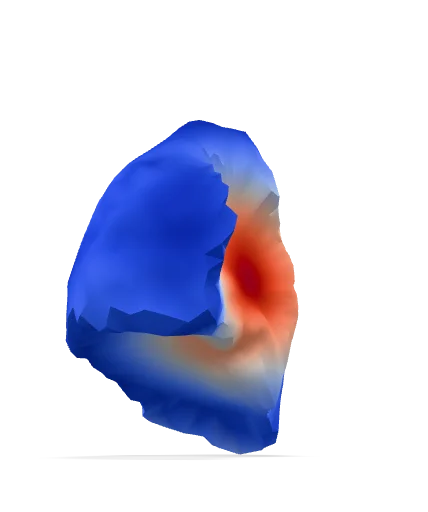
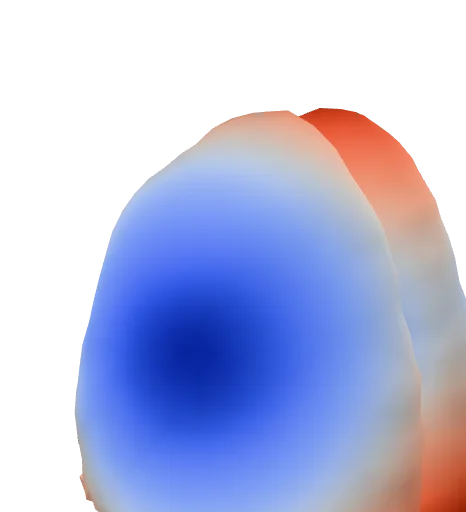
Update model 3D

diff --git a/Resources/AR/3D_lung_AR.html b/Resources/AR/3D_lung_AR.html
@@ -9,7 +9,12 @@
   </head>
   <body>
     <!-- <model-viewer> HTML element -->
-    <model-viewer src="lung_nonflipped.glb" ar ar-modes="scene-viewer webxr quick-look" camera-controls tone-mapping="neutral" poster="poster.webp" shadow-intensity="0.35" shadow-softness="1" exposure="0.79" camera-orbit="4.628deg 101deg 54.63m" field-of-view="30deg" auto-rotate>
+    <model-viewer src="Lungs_LL_Inverted_RL_NonInverted.glb" ar ar-modes="webxr scene-viewer quick-look" camera-controls tone-mapping="neutral" poster="poster.webp" shadow-intensity="1.33" camera-orbit="173.7deg 81.78deg 6.515m" field-of-view="30deg" auto-rotate exposure="0.62">
+      <button class="Hotspot" slot="hotspot-1" data-position="-0.8184790388448595m -0.0321828500967391m -0.8610020719018683m" data-normal="-0.28390831089996554m 0.23131470193568243m -0.9305318799860298m" data-visibility-attribute="visible">
+          <div class="HotspotAnnotation">Left lung</div>
+      </button><button class="Hotspot" slot="hotspot-2" data-position="0.6534892525396154m 0.007311898550674656m -0.7524544861608939m" data-normal="0.5117217086691623m 0.3018112928340044m -0.8043947018687903m" data-visibility-attribute="visible">
+          <div class="HotspotAnnotation">Right lung</div>
+      </button>
       <div class="progress-bar hide" slot="progress-bar">
           <div class="update-bar"></div>
       </div>

diff --git a/docs/Resources/AR/3D_lung_AR.html b/docs/Resources/AR/3D_lung_AR.html
@@ -9,7 +9,12 @@
   </head>
   <body>
     <!-- <model-viewer> HTML element -->
-    <model-viewer src="lung_nonflipped.glb" ar ar-modes="scene-viewer webxr quick-look" camera-controls tone-mapping="neutral" poster="poster.webp" shadow-intensity="0.35" shadow-softness="1" exposure="0.79" camera-orbit="4.628deg 101deg 54.63m" field-of-view="30deg" auto-rotate>
+    <model-viewer src="Lungs_LL_Inverted_RL_NonInverted.glb" ar ar-modes="webxr scene-viewer quick-look" camera-controls tone-mapping="neutral" poster="poster.webp" shadow-intensity="1.33" camera-orbit="173.7deg 81.78deg 6.515m" field-of-view="30deg" auto-rotate exposure="0.62">
+      <button class="Hotspot" slot="hotspot-1" data-position="-0.8184790388448595m -0.0321828500967391m -0.8610020719018683m" data-normal="-0.28390831089996554m 0.23131470193568243m -0.9305318799860298m" data-visibility-attribute="visible">
+          <div class="HotspotAnnotation">Left lung</div>
+      </button><button class="Hotspot" slot="hotspot-2" data-position="0.6534892525396154m 0.007311898550674656m -0.7524544861608939m" data-normal="0.5117217086691623m 0.3018112928340044m -0.8043947018687903m" data-visibility-attribute="visible">
+          <div class="HotspotAnnotation">Right lung</div>
+      </button>
       <div class="progress-bar hide" slot="progress-bar">
           <div class="update-bar"></div>
       </div>

diff --git a/Resources/AR/styles.css b/Resources/AR/styles.css
@@ -19,6 +19,66 @@ model-viewer {
   background-color: #ffffff;
 }
 
+.Hotspot {
+  background: #fff;
+  border-radius: 32px;
+  border: 0;
+  box-shadow: 0 2px 4px rgba(0, 0, 0, 0.25);
+  box-sizing: border-box;
+  cursor: pointer;
+  height: 24px;
+  padding: 8px;
+  position: relative;
+  transition: opacity 0.3s;
+  width: 24px;
+}
+
+.Hotspot:not([data-visible]) {
+  background: transparent;
+  border: 4px solid #fff;
+  box-shadow: none;
+  height: 32px;
+  pointer-events: none;
+  width: 32px;
+}
+
+.Hotspot:focus {
+  border: 4px solid rgb(0, 128, 200);
+  height: 32px;
+  outline: none;
+  width: 32px;
+}
+
+.Hotspot > * {
+  opacity: 1;
+  transform: translateY(-50%);
+}
+
+.HotspotAnnotation{
+  background: #fff;
+  border-radius: 4px;
+  box-shadow: 0 2px 4px rgba(0, 0, 0, 0.25);
+  color: rgba(0, 0, 0, 0.8);
+  display: block;
+  font-family: Futura, Helvetica Neue, sans-serif;
+  font-size: 18px;
+  font-weight: 700;
+  left: calc(100% + 1em);
+  max-width: 128px;
+  overflow-wrap: break-word;
+  padding: 0.5em 1em;
+  position: absolute;
+  top: 50%;
+  width: max-content;
+}
+
+.Hotspot:not([data-visible]) > * {
+  opacity: 0;
+  pointer-events: none;
+  transform: translateY(calc(-50% + 4px));
+  transition: transform 0.3s, opacity 0.3s;
+}
+
 
 .progress-bar {
   display: block;

diff --git a/docs/Resources/AR/styles.css b/docs/Resources/AR/styles.css
@@ -19,6 +19,66 @@ model-viewer {
   background-color: #ffffff;
 }
 
+.Hotspot {
+  background: #fff;
+  border-radius: 32px;
+  border: 0;
+  box-shadow: 0 2px 4px rgba(0, 0, 0, 0.25);
+  box-sizing: border-box;
+  cursor: pointer;
+  height: 24px;
+  padding: 8px;
+  position: relative;
+  transition: opacity 0.3s;
+  width: 24px;
+}
+
+.Hotspot:not([data-visible]) {
+  background: transparent;
+  border: 4px solid #fff;
+  box-shadow: none;
+  height: 32px;
+  pointer-events: none;
+  width: 32px;
+}
+
+.Hotspot:focus {
+  border: 4px solid rgb(0, 128, 200);
+  height: 32px;
+  outline: none;
+  width: 32px;
+}
+
+.Hotspot > * {
+  opacity: 1;
+  transform: translateY(-50%);
+}
+
+.HotspotAnnotation{
+  background: #fff;
+  border-radius: 4px;
+  box-shadow: 0 2px 4px rgba(0, 0, 0, 0.25);
+  color: rgba(0, 0, 0, 0.8);
+  display: block;
+  font-family: Futura, Helvetica Neue, sans-serif;
+  font-size: 18px;
+  font-weight: 700;
+  left: calc(100% + 1em);
+  max-width: 128px;
+  overflow-wrap: break-word;
+  padding: 0.5em 1em;
+  position: absolute;
+  top: 50%;
+  width: max-content;
+}
+
+.Hotspot:not([data-visible]) > * {
+  opacity: 0;
+  pointer-events: none;
+  transform: translateY(calc(-50% + 4px));
+  transition: transform 0.3s, opacity 0.3s;
+}
+
 
 .progress-bar {
   display: block;
